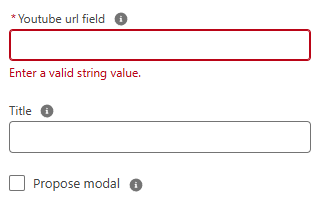
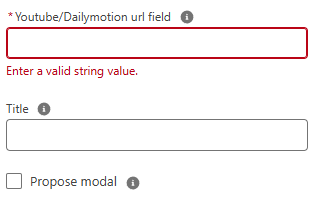
Auto-regenerate with python

Changed region(s): [[0.0, 0.0303, 1.0, 0.3939], [0.0, 0.4848, 1.0, 0.7879], [0.0, 0.8182, 0.4586, 0.9697]]

diff --git a/Video Player/readme.md b/Video Player/readme.md
@@ -4,6 +4,7 @@
 
 ## Features:
 
+Youtube and Dailymotion video player.
 Can be used either on record page, homepage and app page.
 
 ## Parameters
@@ -15,7 +16,7 @@ Can be used either on record page, homepage and app page.
 - Mandatory
 
   - recordId current record id (provided by default in a lightning record page).
-  - fieldApiName Field API name containing the video URL.
+  - fieldApiName Field API name containing the Youtube or Dailymotion video URL (including video ID)
 
 - Optional
 
@@ -28,9 +29,13 @@ Can be used either on record page, homepage and app page.
 
 - Mandatory
 
-  - videoUrl Full URL of the video (including video ID).
+  - videoUrl Full URL of the Youtube or Dailymotion video (including video ID).
 
 - Optional
 
   - title title to display above the video.
   - allowModal Allow user to show video in modal ? (default is false)
+
+## TODO
+
+- Add Vimeo support.

diff --git a/readme.md b/readme.md
@@ -4,6 +4,8 @@ An easy-to-digest collections of components for Salesforce.
 
 ## What's new ?
 
+- On 27/01/2025, added Dailymotion support on "Video Player" component [See its readme](<./Video Player/readme.md>).
+
 - On 26/01/2025, added "Video Player" component [See its readme](<./Video Player/readme.md>).
 
 See also Gists for ideas and practices:
